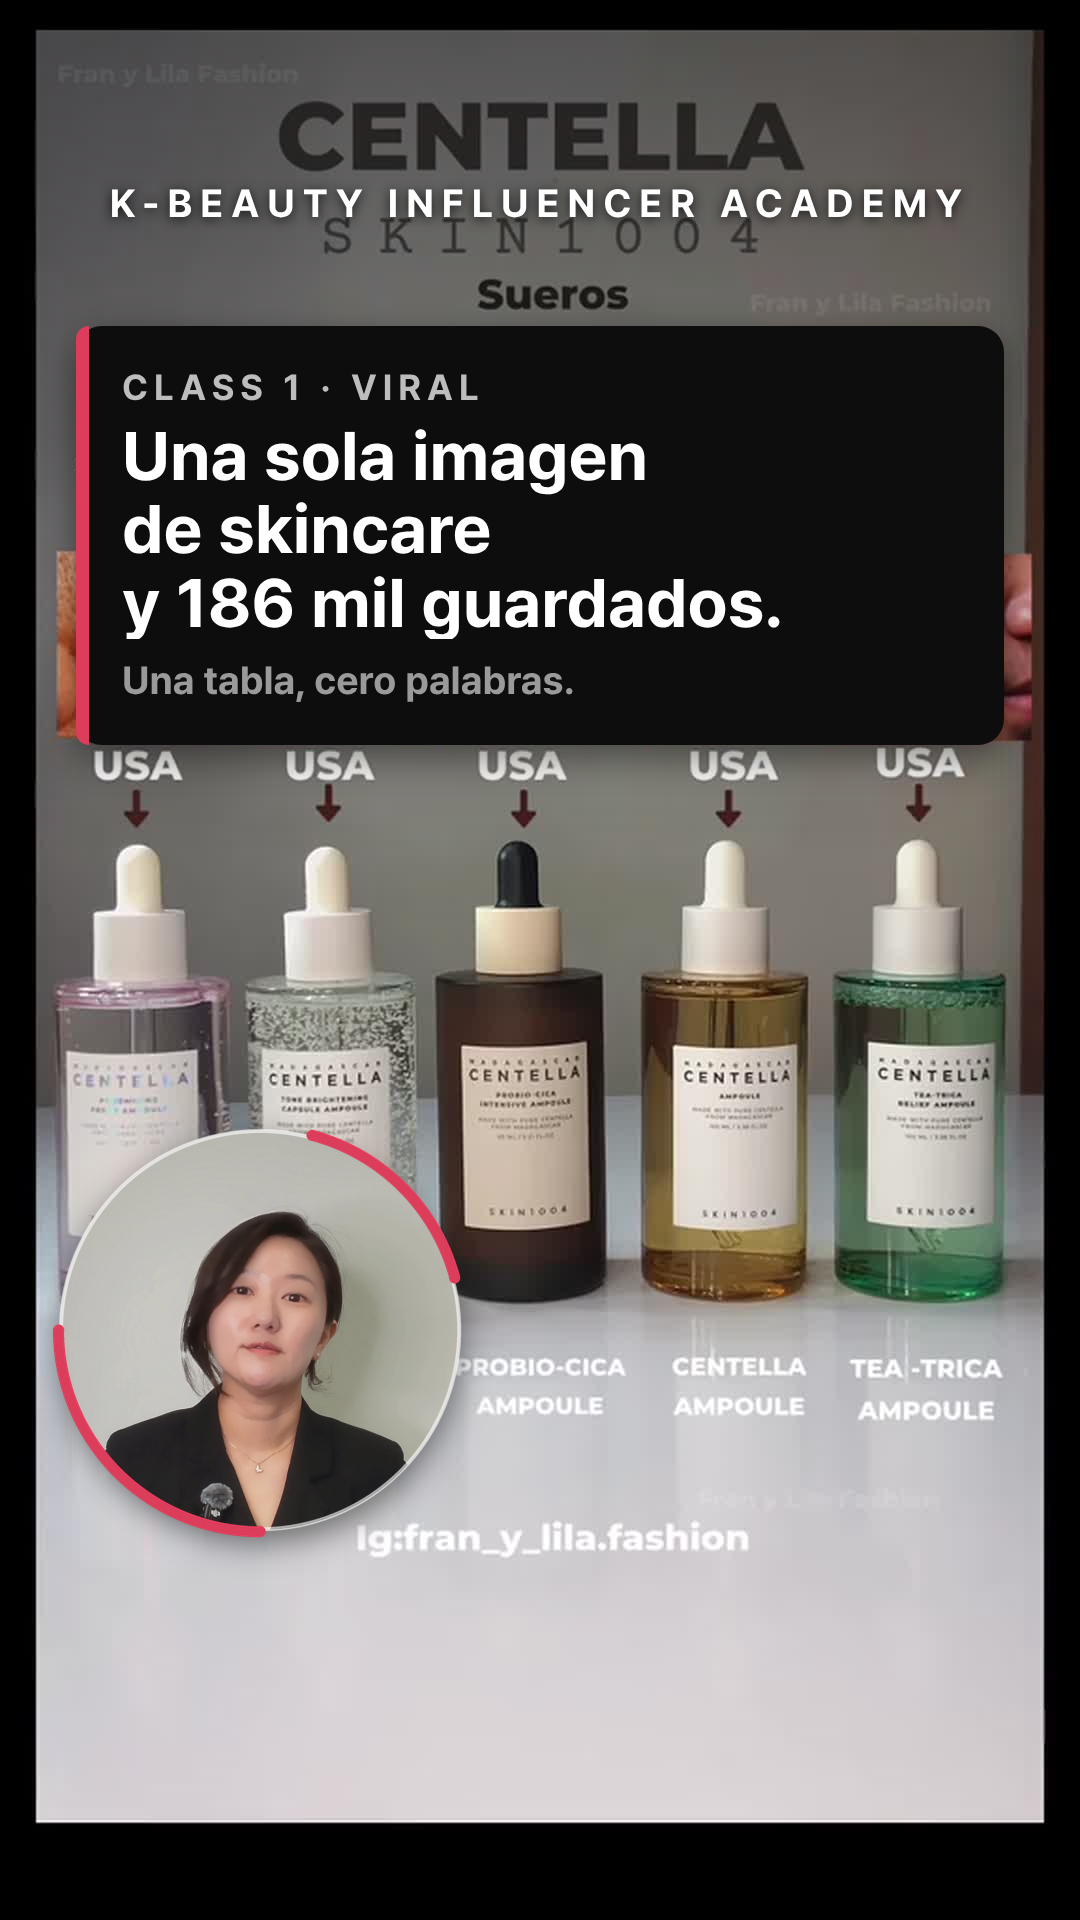
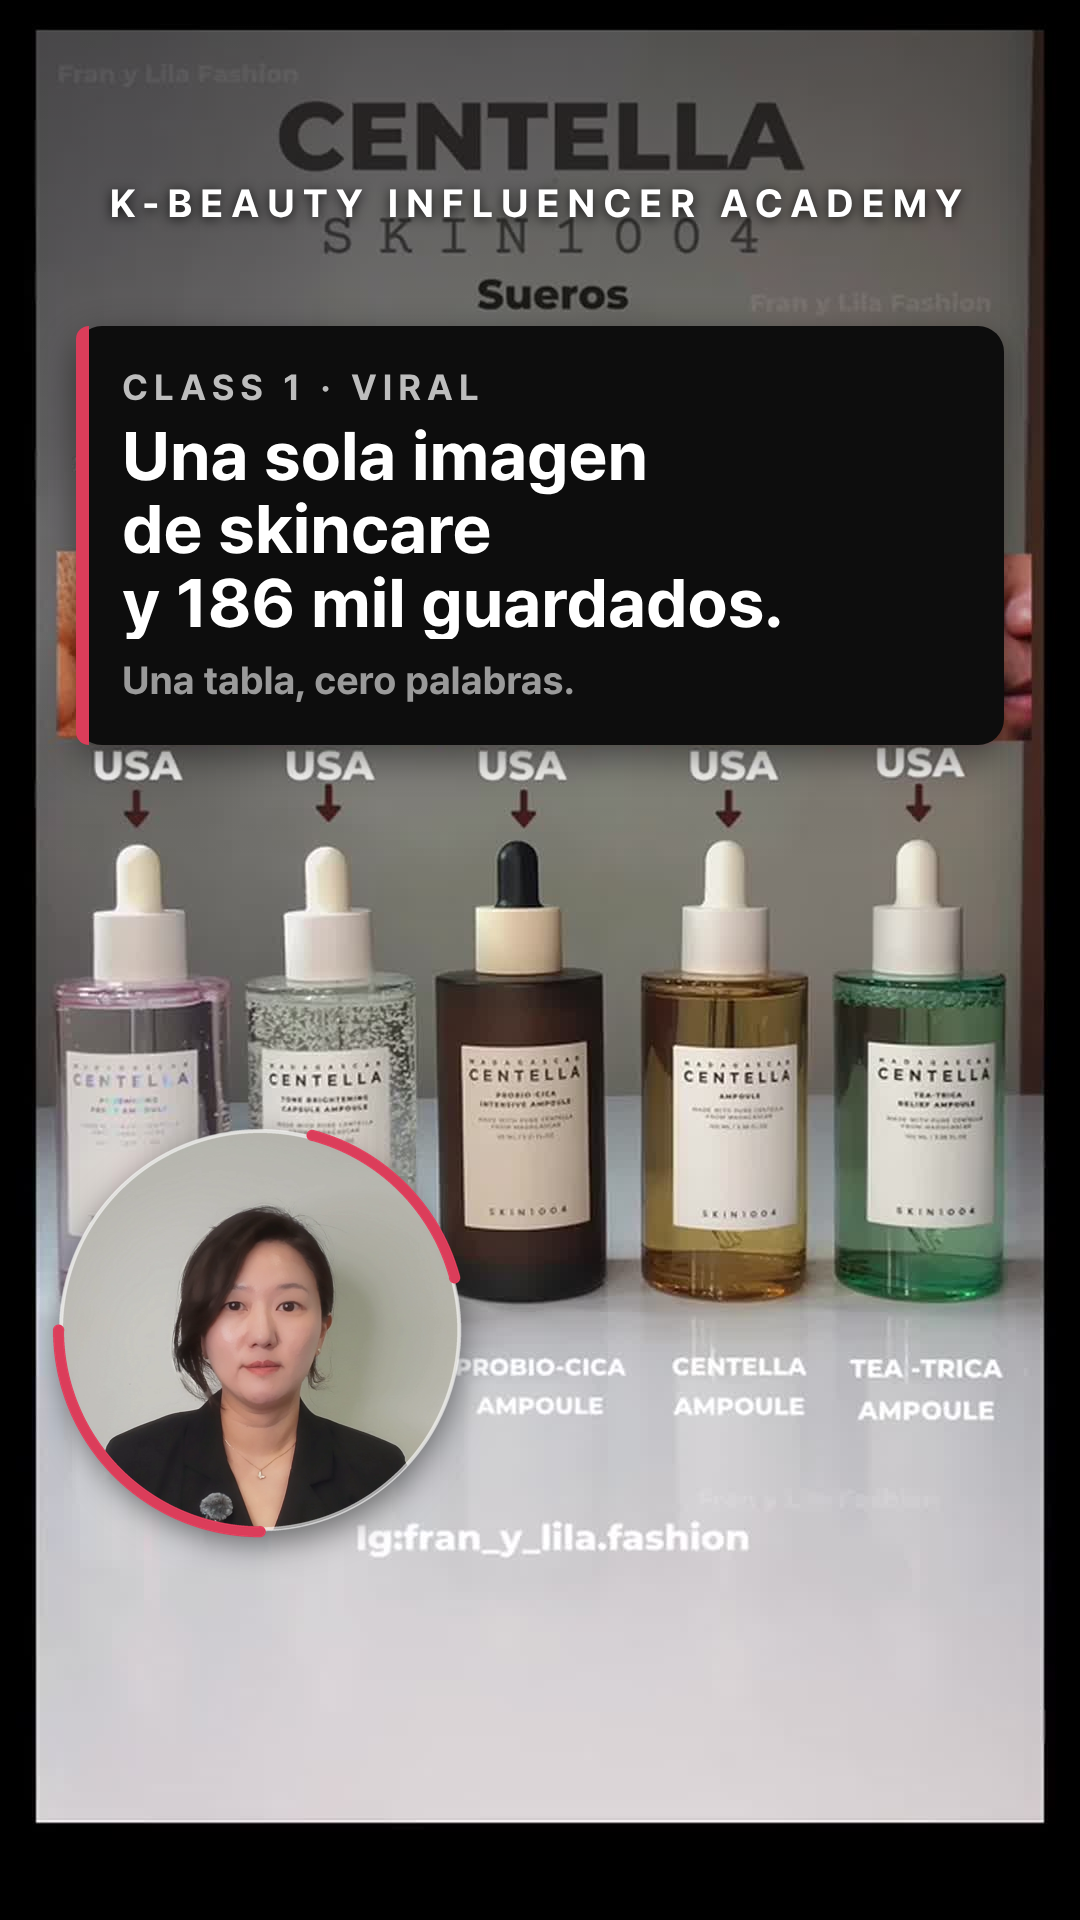
썸네일: 목주름 완화, 손·고개 기울기 컷 제외
Claude-Session: https://claude.ai/code/session_01NBw83u7YiR7WixSKKJmAKg

Changed region(s): [[0.1528, 0.625, 0.3361, 0.8125]]

diff --git a/plan/pipeline/tools/thumb_retouch.py b/plan/pipeline/tools/thumb_retouch.py
@@ -29,7 +29,22 @@ def retouch(img, eye=0.14, slim=0.08):
         rx, ry = xx - c[0], yy - c[1]; rr = np.clip(np.sqrt(rx ** 2 + ry ** 2) / Re, 0, 1)
         f = 1 - eye * (1 - rr ** 2) ** 2
         sx += rx * (f - 1); sy += ry * (f - 1)
-    return cv2.remap(img, sx.astype(np.float32), sy.astype(np.float32), cv2.INTER_CUBIC, borderMode=cv2.BORDER_REFLECT)
+    out = cv2.remap(img, sx.astype(np.float32), sy.astype(np.float32), cv2.INTER_CUBIC, borderMode=cv2.BORDER_REFLECT)
+    return neck_soft(out, P, fw, cx)
+
+def neck_soft(img, P, fw, cx, amt=0.9):
+    """목주름 흐리게: 턱 아래 목 피부만 결을 살린 채 부드럽게 (가로 주름 위주)"""
+    H, W = img.shape[:2]; y0 = int(P[152, 1] - 0.05 * fw); y1 = min(H, int(P[152, 1] + 0.32 * fw))   # 목걸이 위까지만
+    m = np.zeros((H, W), np.float32)
+    cv2.ellipse(m, (int(cx), int((y0 + y1) / 2)), (int(0.34 * fw), int((y1 - y0) / 2)), 0, 0, 360, 1, -1)
+    ycc = cv2.cvtColor(img, cv2.COLOR_BGR2YCrCb); skin = ((ycc[..., 1] > 133) & (ycc[..., 1] < 180) & (ycc[..., 2] > 80) & (ycc[..., 2] < 135)).astype(np.float32)
+    jaw = np.zeros((H, W), np.uint8); cv2.fillConvexPoly(jaw, cv2.convexHull(P.astype(np.int32)), 1)   # 얼굴(턱 포함)은 건드리지 않음
+    m = m * skin * (1 - jaw); m = cv2.GaussianBlur(m * cv2.erode(skin, np.ones((15, 15), np.uint8)), (0, 0), 0.025 * fw) * amt   # 머리카락 가장자리 피함
+    soft = cv2.bilateralFilter(img, 0, 22, 0.035 * fw)
+    soft = cv2.GaussianBlur(soft, (0, 0), sigmaX=0.006 * fw, sigmaY=0.045 * fw)   # 세로로 더 흐려 가로 주름을 지움
+    noise = (img.astype(np.float32) - cv2.GaussianBlur(img, (0, 0), 1.2).astype(np.float32)) * 0.35   # 미세 결은 조금 남김
+    res = soft.astype(np.float32) + noise
+    return np.clip(img * (1 - m[..., None]) + res * m[..., None], 0, 255).astype(np.uint8)
 
 if __name__ == '__main__':
     a = sys.argv; img = cv2.imread(a[1])

diff --git a/plan/pipeline/tools/face_pick.py b/plan/pipeline/tools/face_pick.py
@@ -13,9 +13,15 @@ for i in np.linspace(0, n - 1, 240).astype(int):
     f = f[y0:y0 + c, x0:x0 + c]; r = lm.detect(mp.Image(image_format=mp.ImageFormat.SRGB, data=cv2.cvtColor(f, cv2.COLOR_BGR2RGB)))
     if not r.face_blendshapes: continue
     b = {k.category_name: k.score for k in r.face_blendshapes[0]}
+    L = np.array([[q.x * c, q.y * c] for q in r.face_landmarks[0]]); fw = L[454, 0] - L[234, 0]; cxn = L[1, 0]
+    roll = abs(np.degrees(np.arctan2(L[263, 1] - L[33, 1], L[263, 0] - L[33, 0])))   # 고개 기울기
+    ycc = cv2.cvtColor(f, cv2.COLOR_BGR2YCrCb); skin = ((ycc[..., 1] > 138) & (ycc[..., 1] < 178) & (ycc[..., 2] > 85) & (ycc[..., 2] < 130)).astype(np.uint8)
+    m = np.zeros_like(skin); cv2.fillConvexPoly(m, cv2.convexHull(L.astype(np.int32)), 1); m = cv2.dilate(m, np.ones((41, 41), np.uint8))
+    yb = int(L[152, 1]); m[yb:, int(cxn - 0.42 * fw):int(cxn + 0.42 * fw)] = 1; m[:int(L[159, 1])] = 1   # 얼굴·목/가슴 가운데·눈 위는 제외
+    hand = (skin * (1 - m)).sum() / (c * c)   # 얼굴 밖 피부 = 손
     sharp = cv2.Laplacian(cv2.cvtColor(f, cv2.COLOR_BGR2GRAY), cv2.CV_64F).var()
     sc = (b['mouthSmileLeft'] + b['mouthSmileRight']) * 1.2 - (b['eyeBlinkLeft'] + b['eyeBlinkRight']) * 4.0 - (b['eyeSquintLeft'] + b['eyeSquintRight']) * 1.5 + (b['eyeWideLeft'] + b['eyeWideRight']) * 1.0 - b['jawOpen'] * 2.5 - b['mouthFunnel'] - b['mouthPucker'] \
-         - abs(b['eyeLookOutLeft'] - b['eyeLookInLeft']) - (b['browInnerUp'] * 0.5) + min(sharp, 300) / 600
+         - abs(b['eyeLookOutLeft'] - b['eyeLookInLeft']) - (b['browInnerUp'] * 0.5) + min(sharp, 300) / 600 - hand * 60 - max(0, roll - 3) * 0.15
     res.append((sc, i / fps, f))
 res.sort(key=lambda r: -r[0]); picked = []
 for sc, t, f in res:

diff --git a/plan/EDIT_RULES.md b/plan/EDIT_RULES.md
@@ -118,5 +118,5 @@
 - 자막: 원 바로 위 (subs bottom 820).
 - 썸네일: 원 x60·y1130 400px + 같은 링. 제목 박스는 기존 위치(top 326) 유지, 상단 "K-BEAUTY INFLUENCER ACADEMY" 줄만 위로 올림(아래끝 y226) → 프로필 그리드(3:4, 위 240px 잘림)에서는 통째로 안 보이고, 릴스 전체 화면에서만 보임.
 - 썸네일 대표 얼굴: 영상 1초 지점 고정 → **표정 좋은 프레임 자동 선택** (`tools/face_pick.py`: 눈 뜸·은은한 미소·입 다묾·선명도 점수, 상위 후보 중 Claude가 확인해 고름).
-- 썸네일 얼굴 보정 (확정 2026-11-01, 썸네일만): 자연스럽게 갸름하게 턱선 약 8%(광대 아래→턱으로 갈수록 서서히 좁힘, 윤곽 모양 유지·머리카락/배경 그대로) + 눈 약 10%(은근하게, 어색하지 않게) — `tools/thumb_retouch.py`. 점별로 당기는 방식은 찌그러져 보여서 폐기.
+- 썸네일 얼굴 보정 (확정 2026-11-01, 썸네일만): 자연스럽게 갸름하게 턱선 약 8%(광대 아래→턱으로 갈수록 서서히 좁힘, 윤곽 모양 유지·머리카락/배경 그대로) + 눈 약 10%(은근하게, 어색하지 않게) + 목주름 흐리게(턱 아래 목만, 목걸이·머리카락 제외) — `tools/thumb_retouch.py`. 사진 고르기: 손이 얼굴 옆·앞에 있거나 고개 기울어진 컷 제외 (`face_pick.py`). 점별로 당기는 방식은 찌그러져 보여서 폐기.
 - **KO 버전은 v7부터 만들지 않음** (ES만 빌드, `build_all.sh`).
